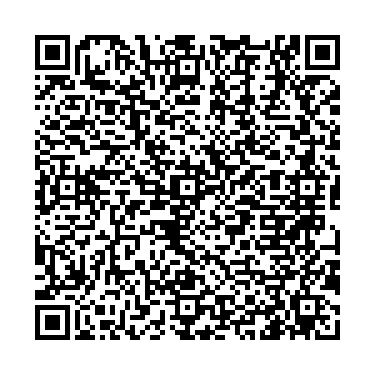
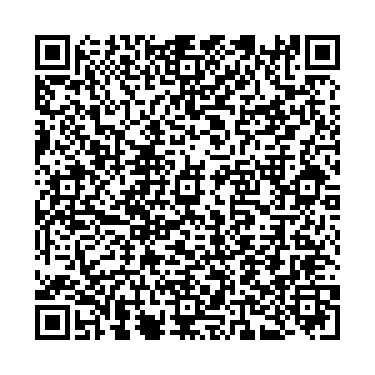
main

Changed region(s): [[0.088, 0.088, 0.9093, 0.9093]]

diff --git a/app.js b/app.js
@@ -4,12 +4,13 @@ const QRPortalWeb = require('@bot-whatsapp/portal')
 const BaileysProvider = require('@bot-whatsapp/provider/baileys')
 const MockAdapter = require('@bot-whatsapp/database/mock')
 
-
-
+// Flujo principal con solo un mensaje
 const flowPrincipal = addKeyword(['hola', 'ole', 'alo'])
 .addAnswer(
-    '🙌 Hola, bienvenido a este *Curso de Chatbots con Node.js*! '
+    '🙌 Hola, bienvenido a este *Curso de desarrollo de Chatbot con Node.js*! '
 )
+
+
 const main = async () => {
     const adapterDB = new MockAdapter()
     const adapterFlow = createFlow([flowPrincipal])
